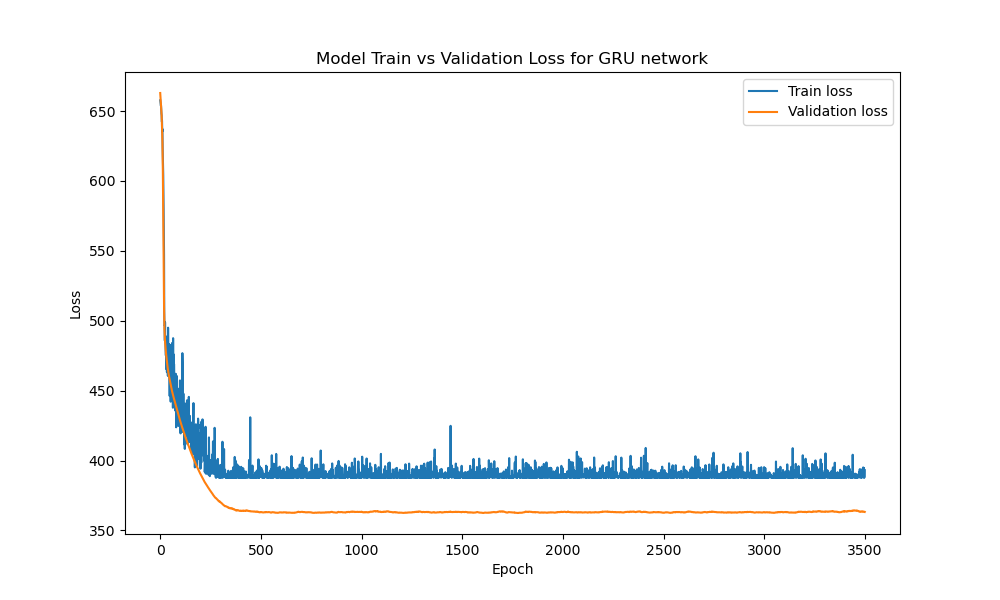
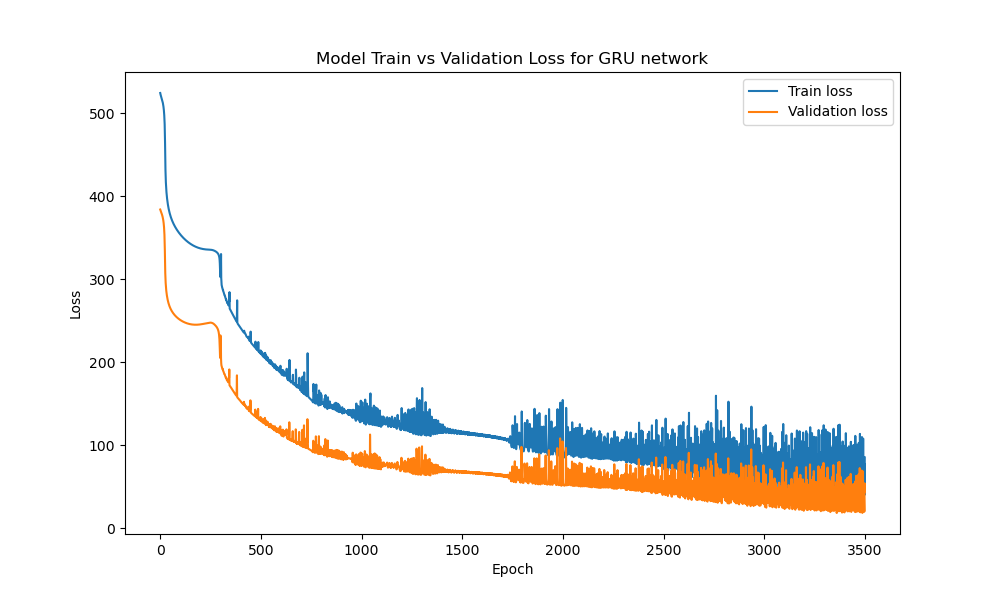
Resultados corrida real completa

diff --git a/RNAM.py b/RNAM.py
@@ -39,9 +39,9 @@ wandb.login()
 
 wandb.init(project="RNAM Real", 
            entity="mimetic-rna", 
-           name='RNAM Real mult layers',
+           name='RNAM Real Complete',
            resume='Allow', 
-           id='RNAM Real mult layers')
+           id='RNAM Real Complete')
 wandb.config = {
     "epochs": 3500,
     "batch_size": 8,
@@ -111,7 +111,8 @@ def separate_values(X_train, Y_train):
 
 #   Read all the .csv files and make an nx4 array
 #   Next, separate the pwm value and angle in their respective arrays.
-root = '../Datos_Recolectados/'
+#root = '../Datos_Recolectados/'
+root = '../Data_Complete/'
 Dir = os.listdir(root)
 pwm = np.array([])
 angle = np.array([])
@@ -168,9 +169,9 @@ print('******************* Finish *******************',flush=True)
 #   Model Creation
 model=Sequential()
 model.add(GRU(units = wandb.config['units'], input_shape=(None, X_train.shape[2]), return_sequences=True))
-model.add(Dropout(wandb.config['Dropout']))
-model.add(GRU(units=wandb.config['units']))
-model.add(Dropout(wandb.config['Dropout']))
+#model.add(Dropout(wandb.config['Dropout']))
+#model.add(GRU(units=wandb.config['units']))
+#model.add(Dropout(wandb.config['Dropout']))
 model.add(Dense(1))
 #   Compile model
 model.compile(optimizer = RMSprop(learning_rate = wandb.config['learning_rate']),
@@ -182,7 +183,7 @@ history = model.fit(X_train, y_train ,
                     epochs = wandb.config['epochs'], batch_size = wandb.config['batch_size'], 
                     validation_data = (X_val, y_val),
                     verbose = 1, callbacks=[WandbCallback(save_model=False)])
-model.save('RNAM_real_multlayer.h5')
+model.save('RNAM_real_complete.h5')
 
 # Model Prediction
 testPredict = model.predict(X_test)
